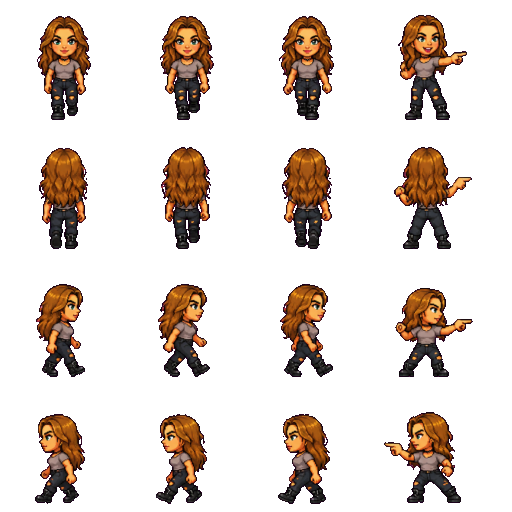
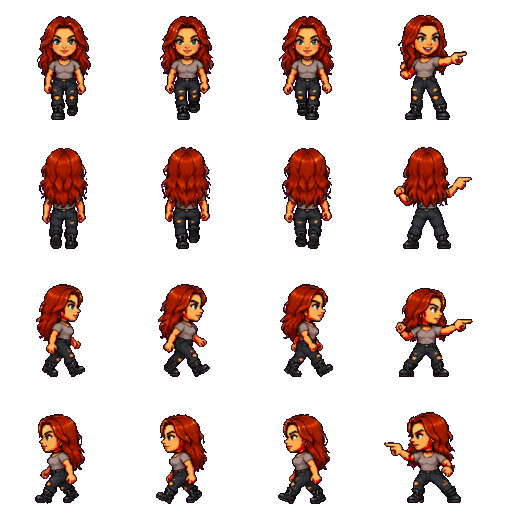
Brittany's real name back in the public build, copper-red hair
She told Duff she likes the game using her name, so cast_public.json drops the
Mazikeen override; the bet card reads BRITTANY'S BET in both editions. Hair
shifted to copper-red on ch_brittany, the HD portraits and the goose loading
screen via tools/redden_hair.py. Tests: ALL PASS.

Claude-Session: https://claude.ai/code/session_01V3sbxN578SiYCfjUT2QfRE

diff --git a/tools/redden_hair.py b/tools/redden_hair.py
@@ -1,0 +1,145 @@
+#!/usr/bin/env python3
+"""Shift a character's brown hair to copper/auburn red without touching skin.
+
+Usage: python3 tools/redden_hair.py SRC OUT [--hue -14] [--sat 1.18] [--val 0.94]
+         [--max-v 0.72] [--min-px 40] [--erode 3] [--box x0,y0,x1,y1 ...] [--keep x0,y0,x1,y1 ...] [--debug MASK.png]
+
+How it finds the hair: pixels in the brown/orange band (hue 12-48 deg, sat > .3) are
+split into blobs by the dark ink outlines (4-connected). Skin blobs are bright (median
+value well above hair), so only blobs whose median value is under --max-v get shifted.
+--box limits the search to rectangles (e.g. the coworker in a loading screen) and is
+needed on painted scenes where other brown things exist. Needs numpy, pillow, scipy.
+Used Nov 16 2026 for Brittany (ch_brittany, portraits_hd/brittany, loading/goose_bet).
+"""
+import argparse
+import numpy as np
+from PIL import Image
+from scipy import ndimage
+
+
+def rgb_to_hsv(a):
+    r, g, b = a[..., 0], a[..., 1], a[..., 2]
+    mx = a.max(-1)
+    mn = a.min(-1)
+    d = mx - mn
+    h = np.zeros_like(mx)
+    m = d > 1e-6
+    rm = m & (mx == r)
+    gm = m & (mx == g) & ~rm
+    bm = m & ~rm & ~gm
+    h[rm] = ((g[rm] - b[rm]) / d[rm]) % 6
+    h[gm] = (b[gm] - r[gm]) / d[gm] + 2
+    h[bm] = (r[bm] - g[bm]) / d[bm] + 4
+    h = h * 60.0
+    s = np.where(mx > 1e-6, d / np.maximum(mx, 1e-6), 0)
+    return h, s, mx
+
+
+def hsv_to_rgb(h, s, v):
+    h = (h % 360) / 60.0
+    i = np.floor(h).astype(int) % 6
+    f = h - np.floor(h)
+    p = v * (1 - s)
+    q = v * (1 - s * f)
+    t = v * (1 - s * (1 - f))
+    out = np.zeros(h.shape + (3,))
+    for k, (rr, gg, bb) in enumerate([(v, t, p), (q, v, p), (p, v, t), (p, q, v), (t, p, v), (v, p, q)]):
+        sel = i == k
+        out[sel, 0] = rr[sel]
+        out[sel, 1] = gg[sel]
+        out[sel, 2] = bb[sel]
+    return out
+
+
+def main():
+    ap = argparse.ArgumentParser()
+    ap.add_argument("src")
+    ap.add_argument("out")
+    ap.add_argument("--hue", type=float, default=-14.0)
+    ap.add_argument("--sat", type=float, default=1.18)
+    ap.add_argument("--val", type=float, default=0.94)
+    ap.add_argument("--max-v", type=float, default=0.72)
+    ap.add_argument("--min-px", type=int, default=40)
+    ap.add_argument("--min-s", type=float, default=0.3, help="pixel art: 0.82 splits hair (s .84-.91) from skin (s .6-.78)")
+    ap.add_argument("--pixels", action="store_true", help="skip the blob test: every candidate pixel is hair (use with --min-s)")
+    ap.add_argument("--clean", type=int, default=0, help="opening radius to strip speckle (painted scenes: 2)")
+    ap.add_argument("--erode", type=int, default=3)
+    ap.add_argument("--box", action="append", default=[])
+    ap.add_argument("--skin-v", type=float, default=1.0, help="pixels brighter than this with skin saturation stay put")
+    ap.add_argument("--keep", action="append", default=[], help="x0,y0,x1,y1 never recoloured (e.g. a scrunched forehead)")
+    ap.add_argument("--debug")
+    a = ap.parse_args()
+
+    im = Image.open(a.src)
+    mode = im.mode
+    rgba = np.asarray(im.convert("RGBA")).astype(np.float64) / 255.0
+    rgb = rgba[..., :3]
+    h, s, v = rgb_to_hsv(rgb)
+    cand = (h >= 12) & (h <= 48) & (s > a.min_s) & (v > 0.08) & (rgba[..., 3] > 0.05)
+    if a.box:
+        inbox = np.zeros_like(cand)
+        for b in a.box:
+            x0, y0, x1, y1 = [int(n) for n in b.split(",")]
+            inbox[y0:y1, x0:x1] = True
+        cand &= inbox
+    # erode first so thin gaps in the ink (temple, jaw) don't fuse hair and face,
+    # then hand every candidate pixel to its nearest eroded blob
+    core = ndimage.binary_erosion(cand, iterations=a.erode) if a.erode > 0 else cand
+    lab, n = ndimage.label(core)
+    if a.erode > 0 and n:
+        _, (iy, ix) = ndimage.distance_transform_edt(lab == 0, return_indices=True)
+        lab = np.where(cand, lab[iy, ix], 0)
+    hair = np.zeros_like(cand)
+    for i in range(1, n + 1):
+        blob = lab == i
+        cnt = int(blob.sum())
+        if cnt < a.min_px:
+            continue
+        if float(np.median(v[blob])) < a.max_v:
+            hair |= blob
+    # stray strands: small or slightly lighter blobs that touch the hair
+    near = ndimage.binary_dilation(hair, iterations=3)
+    for i in range(1, n + 1):
+        blob = lab == i
+        if not (blob & near).any() or (blob & hair).any():
+            continue
+        if int(blob.sum()) < a.min_px * 5 and float(np.median(v[blob])) < a.max_v + 0.1:
+            hair |= blob
+
+    if a.skin_v < 1.0:
+        hair &= ~((v > a.skin_v) & (s < 0.66))   # lit skin never counts as hair
+    if a.clean > 0:
+        # painted/JPEG art: drop speckle on shaded skin, keep only big hair masses
+        hair = ndimage.binary_opening(hair, iterations=a.clean)
+        hl, hn = ndimage.label(hair)
+        if hn:
+            sizes = ndimage.sum(hair, hl, range(1, hn + 1))
+            keep = np.zeros(hn + 1, bool)
+            keep[1:] = sizes >= a.min_px * 10
+            hair = keep[hl]
+        hair = ndimage.binary_closing(hair, iterations=1) & cand
+    if a.pixels:
+        hair = cand.copy()
+    for b in a.keep:
+        x0, y0, x1, y1 = [int(n) for n in b.split(",")]
+        hair[y0:y1, x0:x1] = False
+    nh = h + a.hue
+    ns = np.clip(s * a.sat, 0, 1)
+    nv = np.clip(v * a.val, 0, 1)
+    new = hsv_to_rgb(nh, ns, nv)
+    out = rgb.copy()
+    out[hair] = new[hair]
+    res = np.concatenate([out, rgba[..., 3:]], -1)
+    img = Image.fromarray((res * 255 + 0.5).clip(0, 255).astype(np.uint8), "RGBA")
+    if mode == "RGB":
+        img = img.convert("RGB")
+        img.save(a.out, quality=92)
+    else:
+        img.save(a.out)
+    if a.debug:
+        Image.fromarray((hair * 255).astype(np.uint8)).save(a.debug)
+    print("%s: %d hair px recoloured" % (a.out, int(hair.sum())))
+
+
+if __name__ == "__main__":
+    main()

diff --git a/CLAUDE.md b/CLAUDE.md
@@ -89,7 +89,7 @@ and `docs/handoffs/*.md`. Work queue detail: `QUEUE.md`.
   sync. Privacy policy: `docs/legal/PRIVACY.md`.
 - **Editions (Nov 13):** public = default export (itch, Pages root, `duffquest-public.apk`): `data/cast_public.json`
   overrides cast.json and `Art.pub()` loads `<name>_pub.<ext>` art. Family = feature tag `family` (Pages
-  `/family/`, `duffquest.apk`, same package id as before): real names, real Fork, Bruce Willnot, Brittany (public: Mazikeen; write `{coworker}`, never her name, in new lines). The kitchen's nickname is `{fork_nick}` (family Fork, public Spatula; test_daily fails on a bare "Fork" in any string). New real brand or
+  `/family/`, `duffquest.apk`, same package id as before): real names, real Fork, Bruce Willnot, Brittany (both editions since Nov 16: she OKed her real name and asked for redder hair; still write `{coworker}`, not her name, in new lines). The kitchen's nickname is `{fork_nick}` (family Fork, public Spatula; test_daily fails on a bare "Fork" in any string). New real brand or
   real person? Put the family name in cast.json, the public one in cast_public.json, add a test_daily leak word.
   Re-make the `_pub` art with `python3 tools/make_public_art.py` (keeps sizes; set big ones to lossy in .import).
   The `_pub` set: Fork + Walgrumps signs, the alley dumpster (`arena_alley`), the pharmacy shelves (`bg_pharmacy`: no real
@@ -137,7 +137,7 @@ and `docs/handoffs/*.md`. Work queue detail: `QUEUE.md`.
 - **Cast 2x overhaul (Nov 14, DONE: every used `ch_*` sheet is 2x; last was `ch_duff_suit`, PR #92; `ch_grillboy` is unused and stays 1x. Final review stills: `docs/renders/screens_final_2x.png` + `ui_audit_final_2x.png`):** every `ch_*` sheet moves to 2x like Duff (512x512, cell 128,
   origin [64,120], s 4 in manifest.json AND art_manifest.gd). Batches of four, before/after via
   `res://tools/cast_shot.tscn -- OLD_DIR id[:Label] ...` (old PNGs from git in OLD_DIR) -> `/tmp/qa/cast.png`. Batch 1
-  (home crew): `ch_madison` done (8% slimmer per Duff; AI ghost/beard frames replaced by mirrors); dress, Mazikeen
+  (home crew): `ch_madison` done (8% slimmer per Duff; AI ghost/beard frames replaced by mirrors); dress, Brittany
   (`ch_brittany`), Lance (`ch_fences`) done too (PRs #62, #66, #67 merged). Batch 1 complete. Batch 2 (story exes: Ghoster, Gym Bro, DJ Vape, Crypto) done on branch `claude/project-thread-i5tf4g`, draft PR for Duff's yes (render `docs/renders/cast_batch2_exes_before_after.png`). DJ Vape + Crypto came from Grok (Duff ran it; prompt + refs in project files `renders/grok/`). Sheet row 3 faces RIGHT, row 4 LEFT: check against cast_shot, AI sheets often come swapped. Canva allows about one generation per 40 min. Import with `--tol 90` (reds survive the key) and `--fit-action` (keeps attack swings inside the cell). Action-frame FX trails (purple) get purged and small islands dropped after import. Batch 3 (Willnot, Grease, Husk, Baron, Marketplace Mike as his own `ch_mike`, no tint) done on branch `claude/project-thread-sm8r6f`, draft PR for Duff's yes (render `docs/renders/cast_batch3_bosses_before_after.png`). Canva takes TWO characters per shot (LANDSCAPE_2_1, 8x4 sheet, split into two 2048 halves before import). Batch 4 (porch pirates 0-3) done, render `docs/renders/cast_batch4_pirates_before_after.png`. Order after: Fork customers, then street, Fork customers, errand NPCs. Duff approves Marketplace Mike (first-bet boss) borrows `ch_hustler` tinted today; Duff wants him in the 2x pass as his own `ch_mike` with `"sprite": "mike"` in boss.gd and no tint.
   every batch before merge.
 

diff --git a/TRACKER.md b/TRACKER.md
@@ -5,6 +5,7 @@ One page: what's built, what's next, what could be better. Updated at every mile
 
 ## Built
 
+- **2026-11-16** **Brittany's name back + redder hair.** Brittany told Duff she likes the game using her real name (and that "Brittanys Bets" is catchy), so the public edition drops its Mazikeen override: `{coworker}` = Brittany in both builds, the bet card reads BRITTANY'S BET again. Her hair is copper-red in the sprite sheet, HD portraits and the goose loading screen (`tools/redden_hair.py`, hue shift on a hair-only mask). Render `docs/renders/brittany_red_hair_before_after.png`.
 - **2026-11-16** **Fail states: eviction + game over.** Three Mondays in a row short of the week's base (`EVICT_STRIKES`, save field `rent_strikes`, defaults 0) = EVICTED screen, retry rolls back to last Monday. The first story/gala KO each day is a free get-up (old soft landing); the second = KNOCKED OUT / GAME OVER screen, retry rolls back to this morning. Soft fails: rolling snapshots `<save>_morning.json` / `<save>_week.json`, never a wiped save. Bounties, bets and street fights keep their old soft landing. Render `docs/renders/fail_screens.png`; `arena_shot` ids `evicted` / `gameover`.
 - **2026-11-15** **Harder story fights + no loading card before the first bet.** Duff: "increase the difficulty of the fights." Early exes per `boss.STORY_TUNE`: HP Ghoster 38->54, Gym Bro 72->99, DJ Vape 90->120, Crypto 108->144 (Willnot stays 240, so the last step is 1.7x, was 2.2x); their hits do x1.25, they attack every 1.7-1.8 s (was 2.2) and aim ahead of a moving Duff. Web: the first bet's alley, Marketplace Mike, {coworker}'s sprite/portrait and the boss music ride in street.pck (+0.7 MB), so the minute-two fight starts without waiting on world.pck.
 - **2026-11-15** **Consistency audit, fix 2: listing re-shoot.** CrazyGames preview videos (16:9 + 2:3, 18 s, silent), itch GIFs and 8 of 9 screens re-shot on the 2x cast and the new dialogue box; covers (portal 3 + itch) are the porch title art + logo, which also drops the old mid-throat fox. `arena_shot sandwich` no longer catches the ticket theft. Render `docs/renders/listing_reshoot_before_after.png`.

diff --git a/docs/legal/RISK_AUDIT.md b/docs/legal/RISK_AUDIT.md
@@ -20,8 +20,9 @@ family art files (unused), so a data-miner could find them; low risk, fixable la
    Saying a real person committed a crime against a real business is the classic defamation fact pattern, even as a
    joke, and the restaurant (or her real manager) didn't consent. PROPOSE: rename the restaurant (new name + new
    sign art) and either make the thief a made-up coworker or get Brittany's written OK. **LAWYER** if both stay real.
-   PUBLIC: restaurant renamed; Brittany is "Mazikeen" (`{coworker}` token, her own chosen persona) everywhere in the
-   public build. Sprite and portrait still look like her, so keep her written OK on file.
+   PUBLIC: restaurant renamed. Brittany was "Mazikeen" in the public build until Nov 16, when she told Duff in writing
+   (Snapchat) "I like it being my name" and called "Brittanys Bets" catchy; her real name is back in both editions
+   (`{coworker}` token). Keep that screenshot on file as her written OK.
 2. **The Twisted Fork in general.** Real business name and a look-alike green sign, shown with a health
    inspector, ranch theft, a villain buying it, "Nobody tips the fry cook". Even if Duff works there, the owner can
    object to its name in a game sold or advertised to the public, and an employer can discipline staff for it.

diff --git a/docs/portals/LISTING.md b/docs/portals/LISTING.md
@@ -1,6 +1,6 @@
 # Duff Quest: CrazyGames listing (paste-ready, Nov 13 2026)
 
-Public edition wording only (the CrazyGames zip is the public build): The Busted Spatula, Mazikeen, Rex Tankton.
+Public edition wording only (the CrazyGames zip is the public build): The Busted Spatula, Rex Tankton (Brittany keeps her real name since Nov 16, with her OK).
 Never use the family names here (the real restaurant, real coworkers, real exes). PEGI 12 tone: the portal build
 starts with clean language on and cartoon gore off, so don't sell blood or swearing.
 
